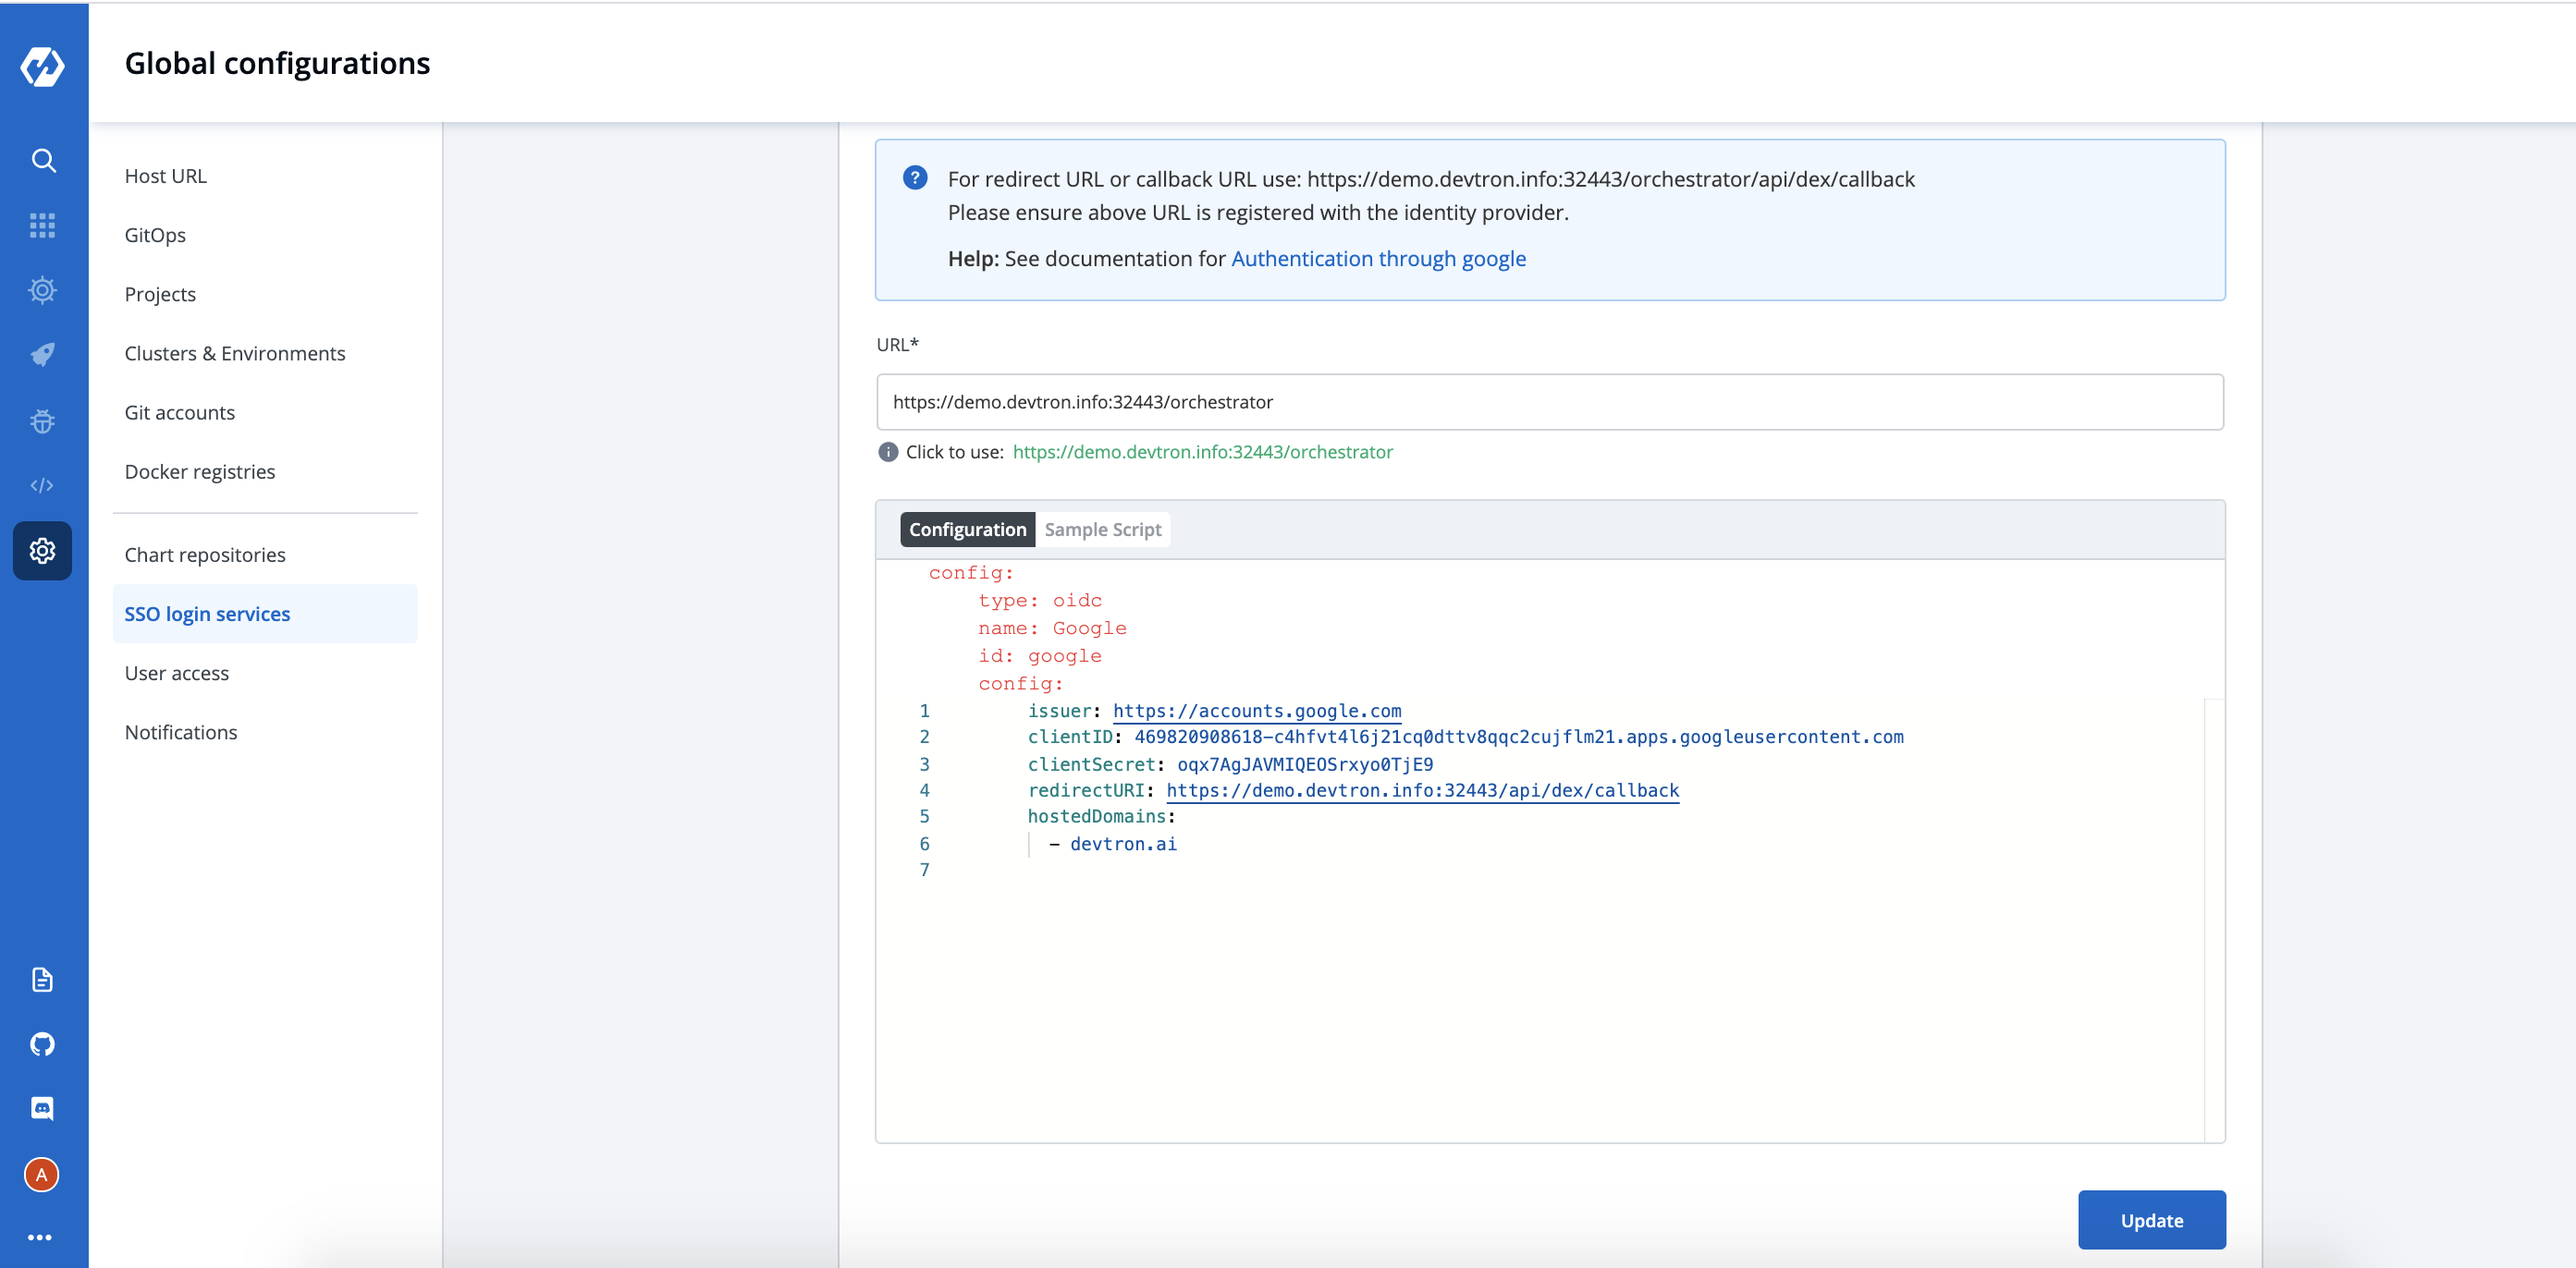
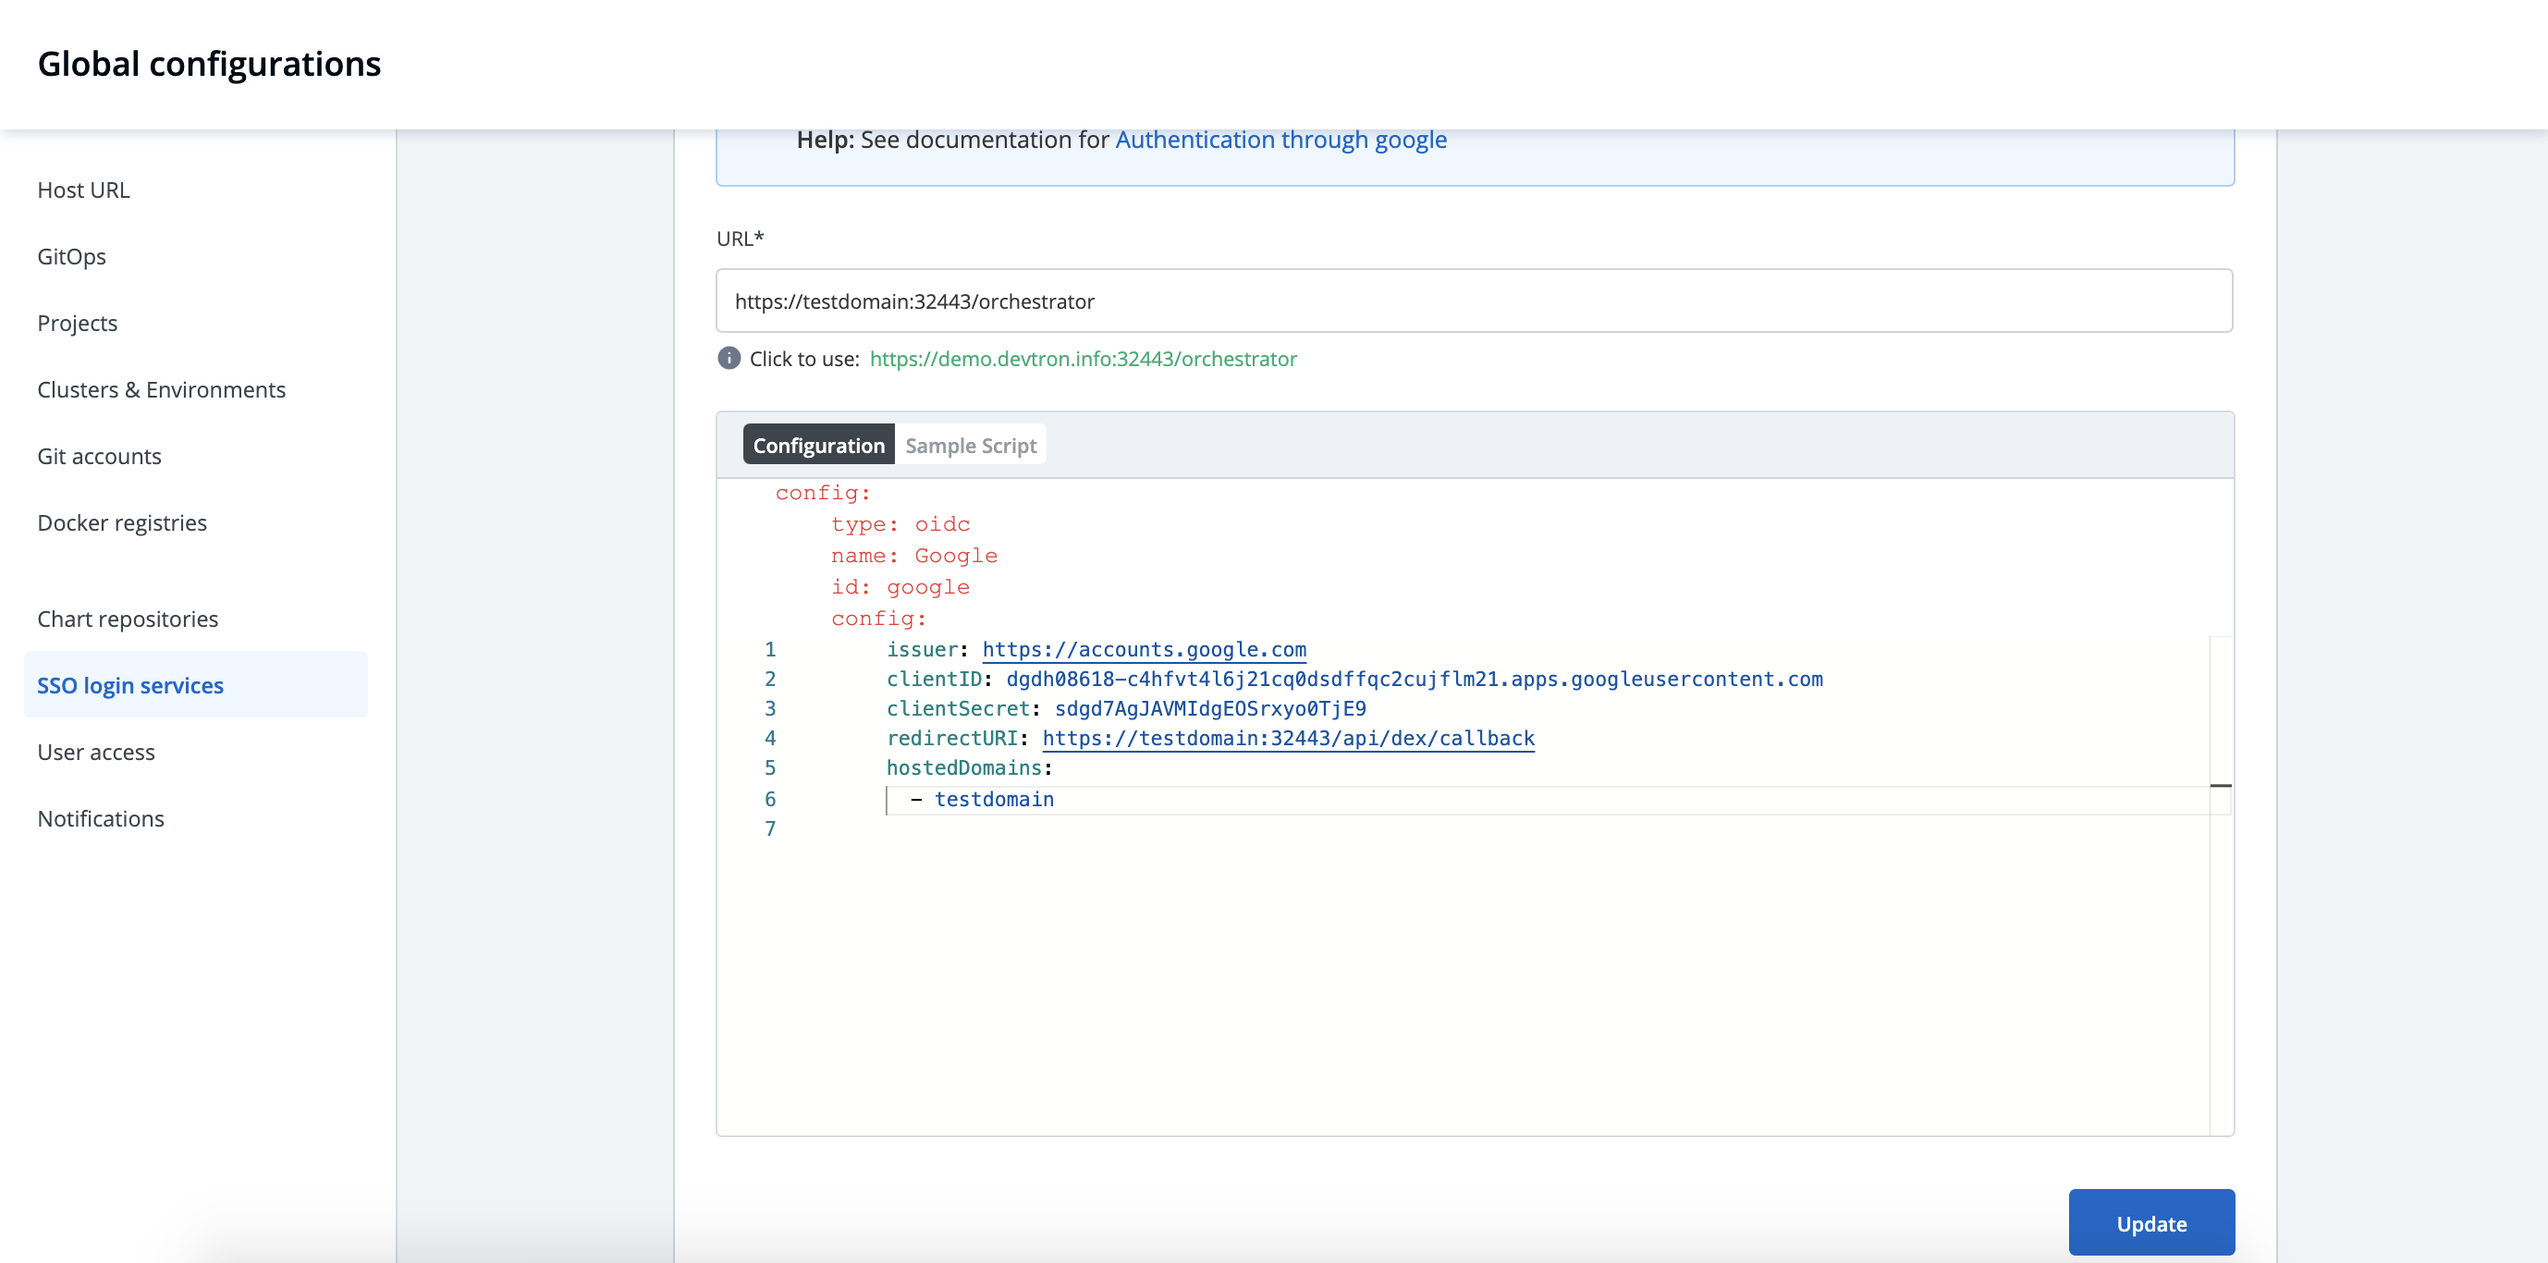
added updated screens for sso login doc

Changed region(s): [[0.156, 0.0922, 1.0, 0.6764], [0.0, 0.0, 0.1872, 1.0], [0.7801, 0.9224, 0.9049, 1.0]]

diff --git a/docs/SUMMARY.md b/docs/SUMMARY.md
@@ -43,7 +43,7 @@
   * [Chart Repositories](user-guide/global-configurations/chart-repo.md)
   * [Cluster And Environments](user-guide/global-configurations/cluster-and-environments.md)
   * [Projects](user-guide/global-configurations/projects.md)
-  * [SSO](user-guide/global-configurations/sso-login.md)
+  * [SSO Login Service](user-guide/global-configurations/sso-login.md)
   * [User Access](user-guide/global-configurations/user-access.md)
   * [Manage Notification](user-guide/global-configurations/manage-notification.md)* [User Access](user-guide/global-configurations/user-access.md)
 * [Bulk Update](user-guide/bulk-update.md)
